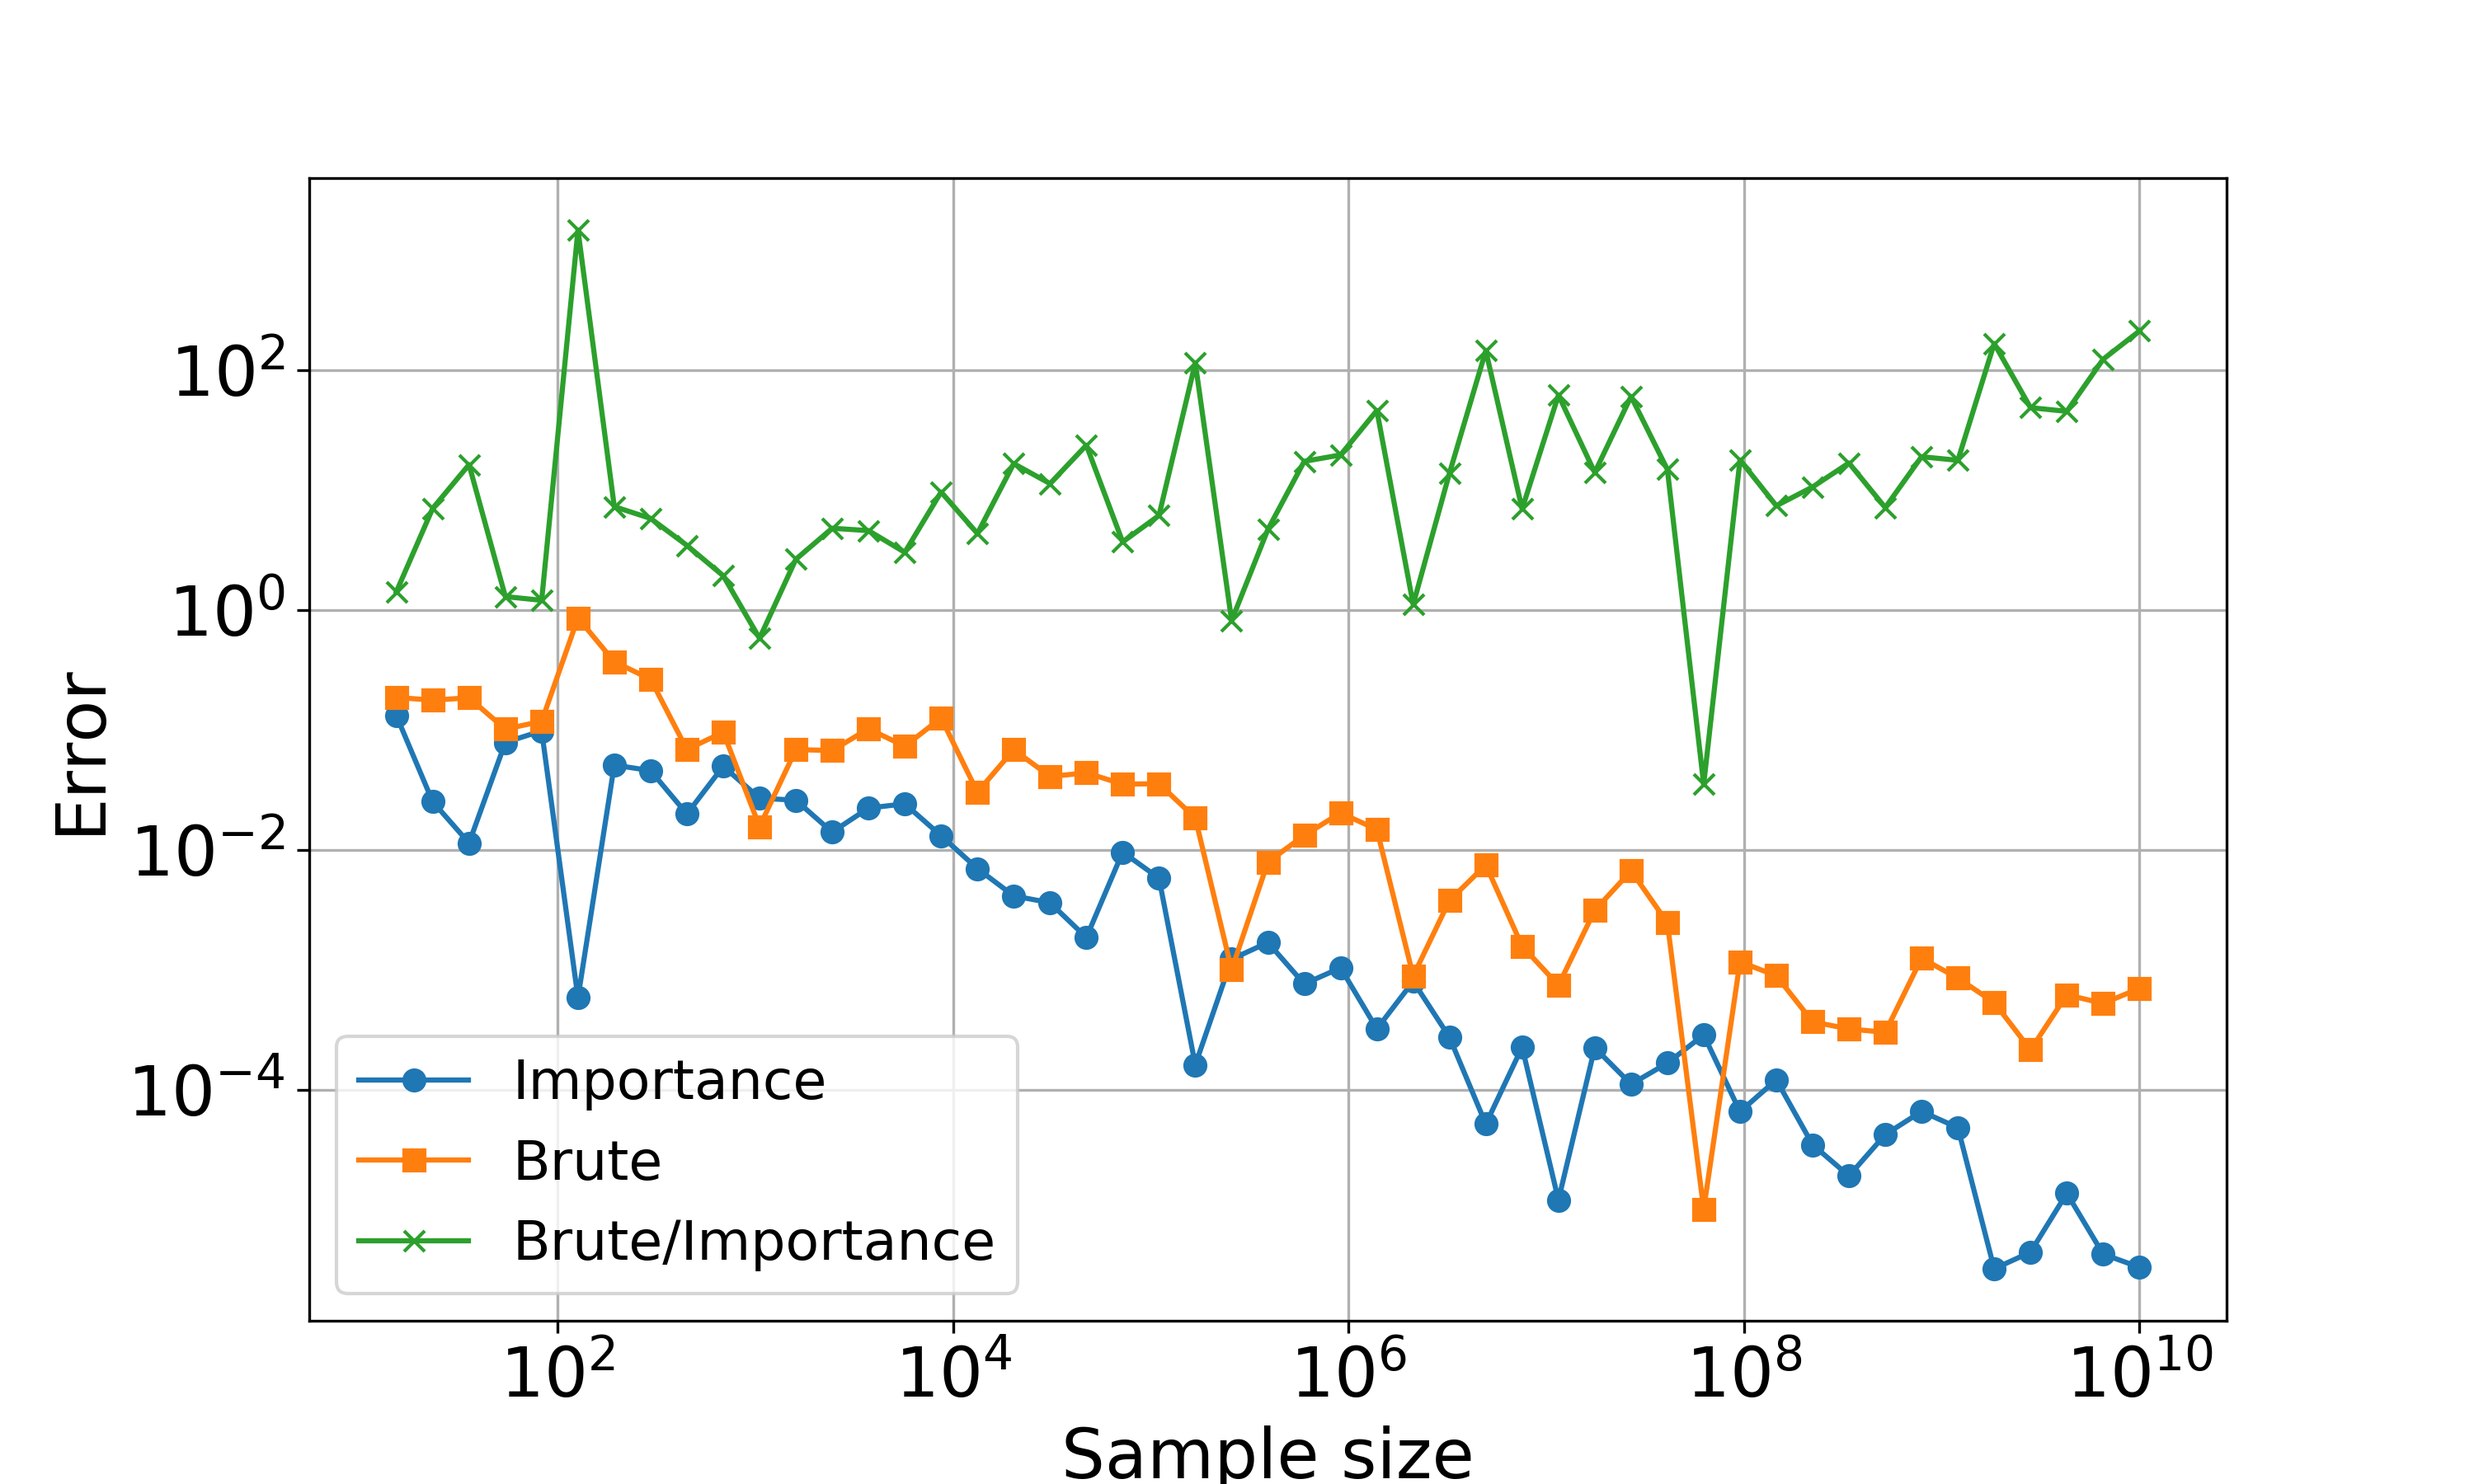
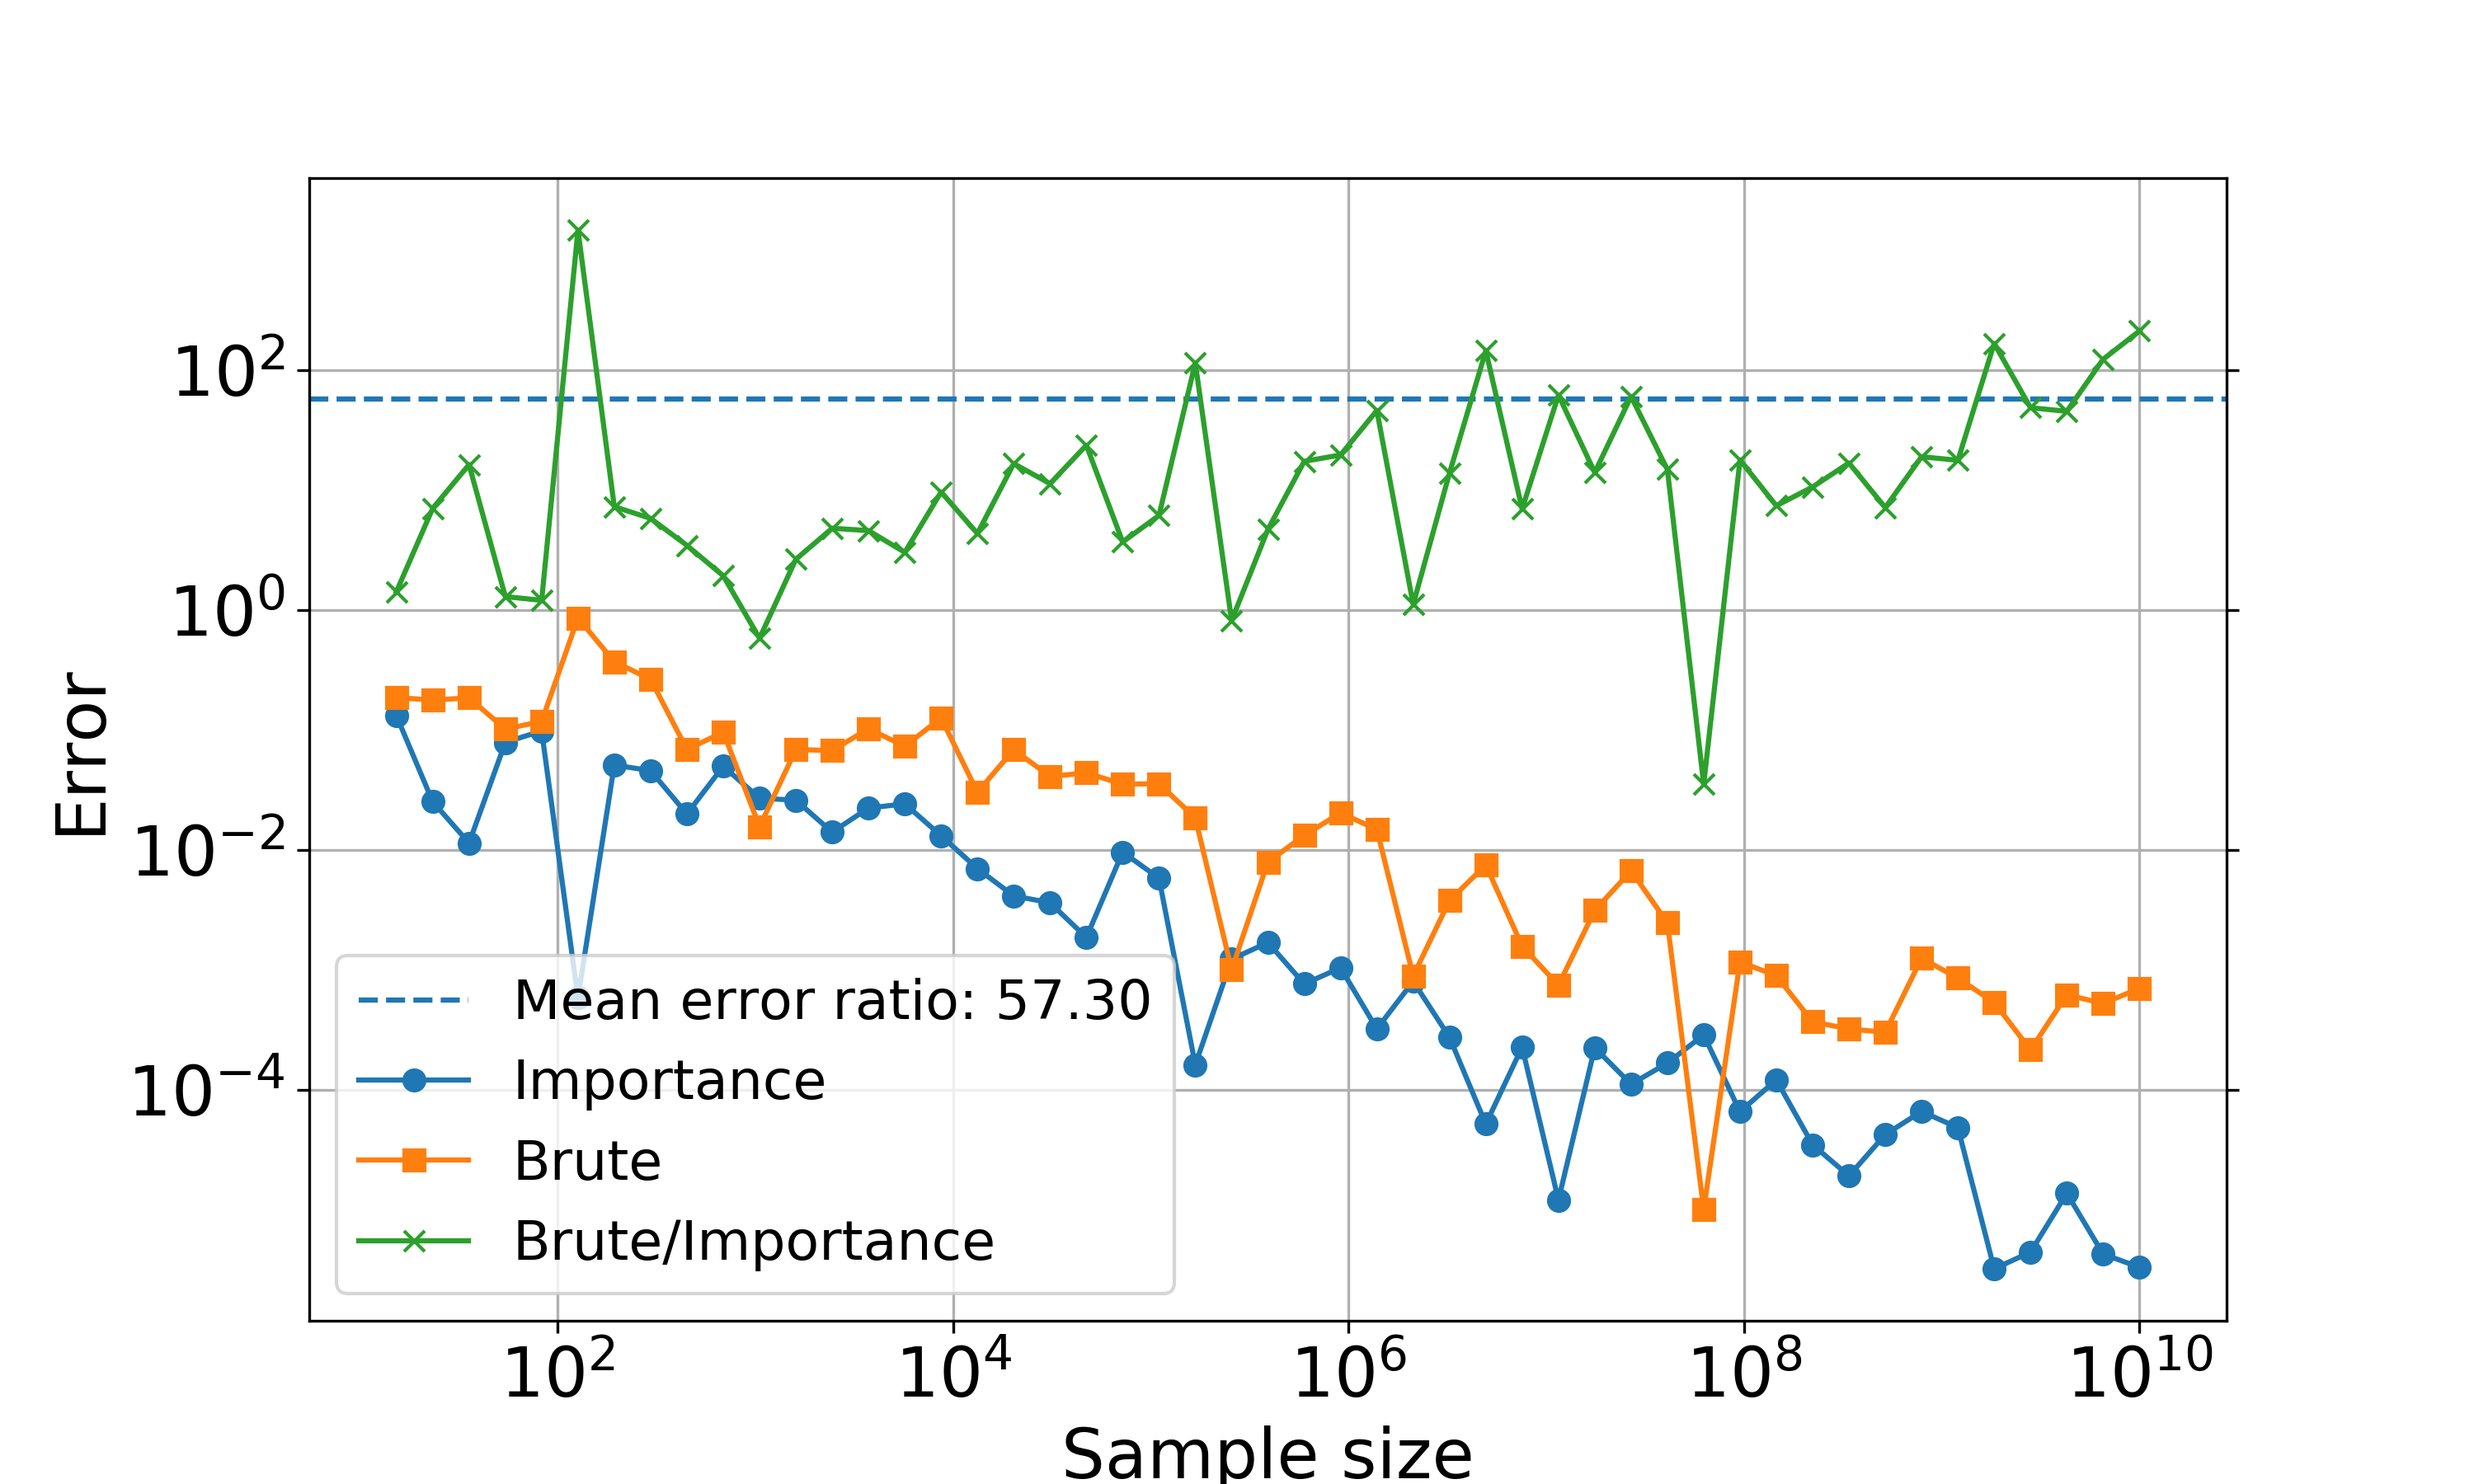
Test interpolation

diff --git a/Project3/src/python/post_process.py b/Project3/src/python/post_process.py
@@ -9,6 +9,7 @@ mpl.rc('savefig', dpi=300)
 mpl.rc('figure', figsize=[10,6])
 mpl.rc('xtick', labelsize=20)
 mpl.rc('ytick', labelsize=20)
+mpl.rc('ytick', right=True)
 mpl.rc('legend', fontsize=16)
 mpl.rc('axes', labelsize=20)
 
@@ -64,84 +65,106 @@ if __name__ == '__main__':
     gauss['error_leg'] = np.abs(gauss['error_leg'])
 
 
-    #### Monte-Carlo results
+    # #### Monte-Carlo results
+    #
+    # # Loglog standard deviation
+    # std_ratio =  mc['std_brute_pl']/mc['std_importance']
+    # ys = [mc['std_importance'],mc['std_brute_pl'], std_ratio]
+    # labels = ['Importance', 'Brute', 'Brute/Importance']
+    # markers = ['o','s','x']
+    # x = mc['N']
+    # xlabel = 'Sample size'
+    # ylabel = 'Standard deviation'
+    # file = 'mc_std_time.png'
+    # plot(x,ys,labels, markers,xlabel,ylabel,file)
+    #
+    # # Loglog plot of error
+    # error_ratio = mc['error_brute_pl']/mc['error_importance']
+    # ys = [mc['error_importance'],mc['error_brute_pl'],error_ratio]
+    # ylabel = 'Error'
+    # file = 'mc_error.png'
+    # mean_error = error_ratio.mean()
+    # plt.axhline(mean_error, label='Mean error ratio: {:.2f}'.format(mean_error), linestyle='--')
+    # plot(x,ys,labels,markers,xlabel,ylabel,file)
+    #
+    #
+    # # Plot time ratio parallel unparallel
+    # time_ratio = mc['time_importance']/mc['time_importance_pl']
+    # plt.xscale('log')
+    # plt.plot(mc['N'],time_ratio, label='Unparallelized/Parallelized', marker='s')
+    # plt.xlabel(xlabel)
+    # plt.ylabel('Time ratio')
+    # plt.legend()
+    # plt.grid()
+    # plt.savefig(FIGDIR+'mc_time_ratio.png')
+    # plt.clf()
+    #
+    # # "3D" plot of std, error and time
+    # plt.xscale('log')
+    # plt.yscale('log')
+    # plt.grid()
+    # ax1 = plt.scatter(mc['std_importance'], mc['error_importance'],c=np.log10(mc['time_importance_pl']),marker='o', cmap='Oranges')
+    # ax2 = plt.scatter(mc['std_brute_pl'], mc['error_brute_pl'],c=np.log10(mc['time_brute_pl']),marker='s', cmap='Greens')
+    # plt.xlabel('Standard deviation')
+    # plt.ylabel('Error')
+    # plt.colorbar(ax1)
+    # plt.colorbar(ax2)
+    # plt.savefig(FIGDIR+'std_error_time.png')
+    # plt.clf()
+    #
+    #
+    # #### GQ results
+    #
+    # # Plot GQ errors
+    # error_ratio =  gauss['error_leg']/gauss['error_lag']
+    # ys = [gauss['error_leg'], gauss['error_lag'], error_ratio]
+    # labels = ['Legendre', 'Laguerre', 'Legendre/Laguerre']
+    # markers = ['o','s','x']
+    # x = gauss['N']
+    # xlabel = 'Integration points'
+    # ylabel = 'Error'
+    # file = 'gauss_error.png'
+    # plot(x,ys,labels,markers,xlabel,ylabel,file,logy=True)
+    #
+    # # Timings of gauss quadrature
+    # time_ratio = gauss['time_leg']/gauss['time_lag']
+    # ys = [gauss['time_leg'], gauss['time_lag'], time_ratio]
+    # ylabel = 'Time [s]'
+    # file = 'gauss_time.png'
+    # plot(x,ys,labels,markers,xlabel,ylabel,file,logy=True)
+    #
+    #
+    # #### Compare GQ and Monte-Carlo results
+    #
+    # # Compare error/time ratios of gauss and monte-carlo
+    # plt.yscale('log')
+    # plt.xscale('log')
+    # alpha = 0.5
+    # plt.plot(mc['time_importance_pl'],mc['error_importance'], label='Importance',marker='x')
+    # plt.plot(mc['time_brute_pl'],mc['error_brute_pl'], label='Brute', marker='x')
+    # plt.plot(gauss['time_leg'], gauss['error_leg'], label='Legendre', marker='s', alpha=alpha)
+    # plt.plot(gauss['time_lag'], gauss['error_lag'], label='Laguerre', marker='s', alpha=alpha)
+    # plt.legend()
+    # plt.xlabel('Time [s]')
+    # plt.ylabel('Error')
+    # plt.grid()
+    # plt.savefig(FIGDIR+'time_compare.png')
 
-    # Loglog standard deviation
-    std_ratio =  mc['std_brute_pl']/mc['std_importance']
-    ys = [mc['std_importance'],mc['std_brute_pl'], std_ratio]
-    labels = ['Importance', 'Brute', 'Brute/Importance']
-    markers = ['o','s','x']
-    x = mc['N']
-    xlabel = 'Sample size'
-    ylabel = 'Standard deviation'
-    file = 'mc_std_time.png'
-    plot(x,ys,labels, markers,xlabel,ylabel,file)
-
-    # Loglog plot of error
-    error_ratio = mc['error_brute_pl']/mc['error_importance']
-    ys = [mc['error_importance'],mc['error_brute_pl'],error_ratio]
-    ylabel = 'Error'
-    file = 'mc_error.png'
-    plot(x,ys,labels,markers,xlabel,ylabel,file)
-
-    # Plot time ratio parallel unparallel
-    time_ratio = mc['time_importance']/mc['time_importance_pl']
-    plt.xscale('log')
-    plt.plot(mc['N'],time_ratio, label='Unparallelized/Parallelized', marker='s')
-    plt.xlabel(xlabel)
-    plt.ylabel('Time ratio')
-    plt.legend()
-    plt.grid()
-    plt.savefig(FIGDIR+'mc_time_ratio.png')
-    plt.clf()
-
-    # "3D" plot of std, error and time
-    plt.xscale('log')
-    plt.yscale('log')
-    plt.grid()
-    ax1 = plt.scatter(mc['std_importance'], mc['error_importance'],c=np.log10(mc['time_importance_pl']),marker='o', cmap='Oranges')
-    ax2 = plt.scatter(mc['std_brute_pl'], mc['error_brute_pl'],c=np.log10(mc['time_brute_pl']),marker='s', cmap='Greens')
-    plt.xlabel('Standard deviation')
-    plt.ylabel('Error')
-    plt.colorbar(ax1)
-    plt.colorbar(ax2)
-    plt.savefig(FIGDIR+'std_error_time.png')
-    plt.clf()
-
-
-    #### GQ results
-
-    # Plot GQ errors
-    error_ratio =  gauss['error_leg']/gauss['error_lag']
-    ys = [gauss['error_leg'], gauss['error_lag'], error_ratio]
-    labels = ['Legendre', 'Laguerre', 'Legendre/Laguerre']
-    markers = ['o','s','x']
-    x = gauss['N']
-    xlabel = 'Integration points'
-    ylabel = 'Error'
-    file = 'gauss_error.png'
-    plot(x,ys,labels,markers,xlabel,ylabel,file,logy=True)
-
-    # Timings of gauss quadrature
-    time_ratio = gauss['time_leg']/gauss['time_lag']
-    ys = [gauss['time_leg'], gauss['time_lag'], time_ratio]
-    ylabel = 'Time [s]'
-    file = 'gauss_time.png'
-    plot(x,ys,labels,markers,xlabel,ylabel,file,logy=True)
-
-
-    #### Compare GQ and Monte-Carlo results
-
-    # Compare error/time ratios of gauss and monte-carlo
-    plt.yscale('log')
-    plt.xscale('log')
-    alpha = 0.5
-    plt.plot(mc['time_importance_pl'],mc['error_importance'], label='Importance',marker='x')
-    plt.plot(mc['time_brute_pl'],mc['error_brute_pl'], label='Brute', marker='x')
-    plt.plot(gauss['time_leg'], gauss['error_leg'], label='Legendre', marker='s', alpha=alpha)
-    plt.plot(gauss['time_lag'], gauss['error_lag'], label='Laguerre', marker='s', alpha=alpha)
-    plt.legend()
-    plt.xlabel('Time [s]')
-    plt.ylabel('Error')
-    plt.grid()
-    plt.savefig(FIGDIR+'time_compare.png')
+    gauss_lag = gauss['error_lag']
+    gauss_lag.index = gauss['time_lag']
+    importance = mc['error_importance']
+    importance.index = mc['time_importance_pl']
+    importance = importance.groupby(importance.index).first()
+    df = pd.DataFrame({"error_lag":gauss_lag,"error_importance":importance})
+    upper = gauss_lag.index.values[-1]
+    lower = gauss_lag.index.values[1]
+    print(upper)
+    print(lower)
+    print(df[lower:upper])
+    interpol = df.interpolate(method='linear')
+    print(interpol[lower:upper])
+    y = interpol['error_lag']/interpol['error_importance']
+    y[lower:upper].plot(loglog=True)
+    print(y[lower:upper].mean())
+    print(y[lower:upper])
+    plt.show()
